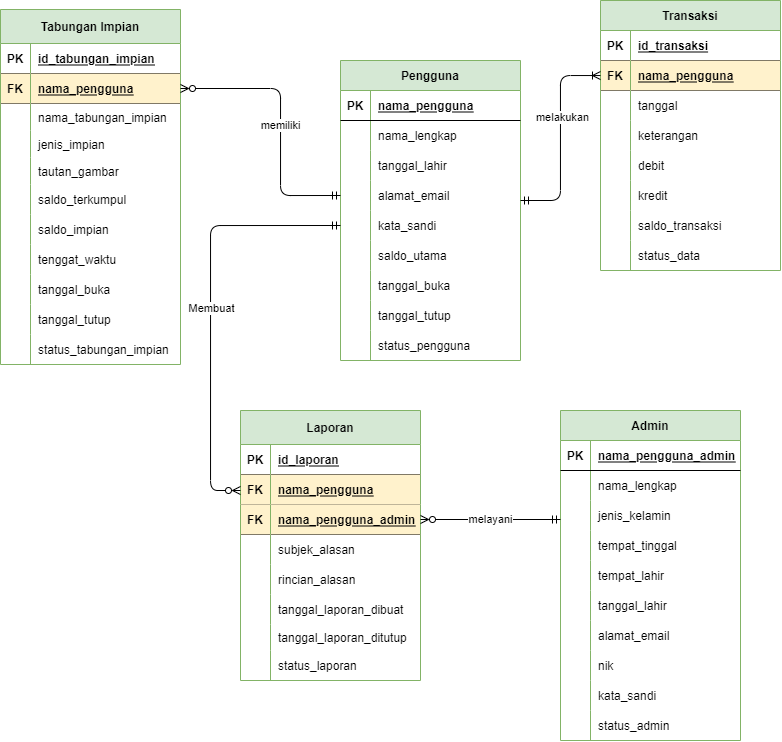
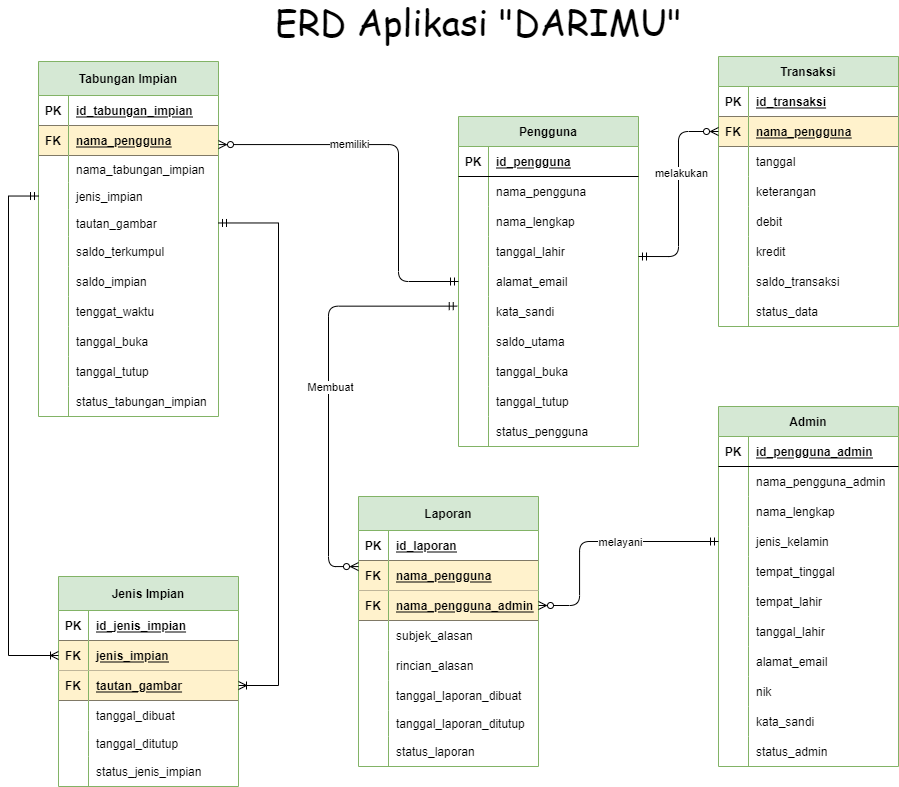
update class,sql,erd
UPDATE
- ClassAdmin & ClassUser (Ubah parameter indeks)

- ERD (menambah entitas Jenis Impian)
- SQL (tambah tb_jenis_impian dan view_riwayat_tabungan_impian)

diff --git a/Darimu/ClassFolder/ClassUser.cs b/Darimu/ClassFolder/ClassUser.cs
@@ -29,7 +29,7 @@ namespace Darimu.ClassFolder
 
                 if (dr.Read())
                 {
-                    string ambil_nama_pengguna = dr.GetString(0);
+                    string ambil_nama_pengguna = dr.GetString(2);
                     if (ambil_nama_pengguna == nama_pengguna)
                     {
                         hasil = "Nama pengguna sudah terdaftar";
@@ -121,13 +121,13 @@ namespace Darimu.ClassFolder
             SqlDataReader dr = sqlcom.ExecuteReader();
             if (dr.Read())
             {
-                data_pengguna.Add(dr.GetString(0));
-                data_pengguna.Add(dr.GetString(1));
-                data_pengguna.Add(dr.GetDateTime(2).ToString("dd/MM/yyyy"));
+                data_pengguna.Add(dr.GetString(2));
                 data_pengguna.Add(dr.GetString(3));
-                data_pengguna.Add(dr.GetString(4));
-                data_pengguna.Add(dr.GetInt64(5));
-                data_pengguna.Add(dr.GetDateTime(6));
+                data_pengguna.Add(dr.GetDateTime(4).ToString("dd/MM/yyyy"));
+                data_pengguna.Add(dr.GetString(5));
+                data_pengguna.Add(dr.GetString(6));
+                data_pengguna.Add(dr.GetInt64(7));
+                data_pengguna.Add(dr.GetDateTime(8));
             }
 
             sqlcon.Close();

diff --git a/Darimu/ClassFolder/ClassAdmin.cs b/Darimu/ClassFolder/ClassAdmin.cs
@@ -33,10 +33,10 @@ namespace Darimu.ClassFolder
             SqlDataReader dr = sqlcom.ExecuteReader();
             if (dr.Read())
             {
-                data_admin.Add(dr.GetString(0));
-                data_admin.Add(dr.GetString(1));
-                data_admin.Add(dr.GetDateTime(5).ToString("dd/MM/yyyy"));
-                data_admin.Add(dr.GetString(6));
+                data_admin.Add(dr.GetString(2));
+                data_admin.Add(dr.GetString(3));
+                data_admin.Add(dr.GetDateTime(7).ToString("dd/MM/yyyy"));
+                data_admin.Add(dr.GetString(8));
             }
 
             sqlcon.Close();
